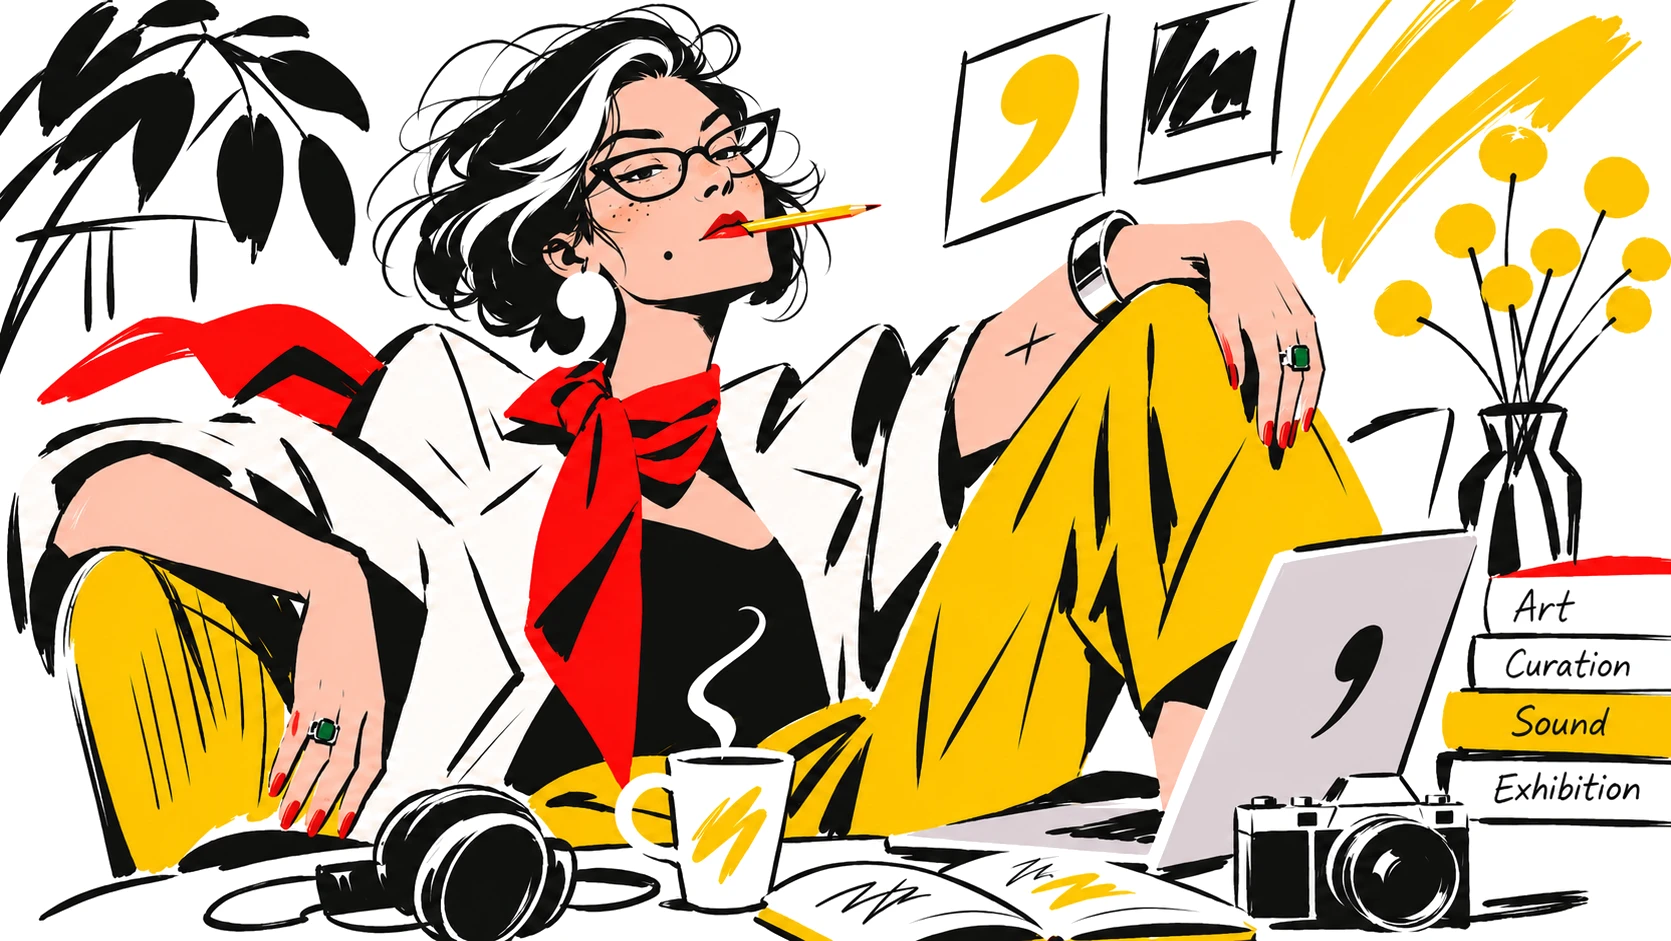
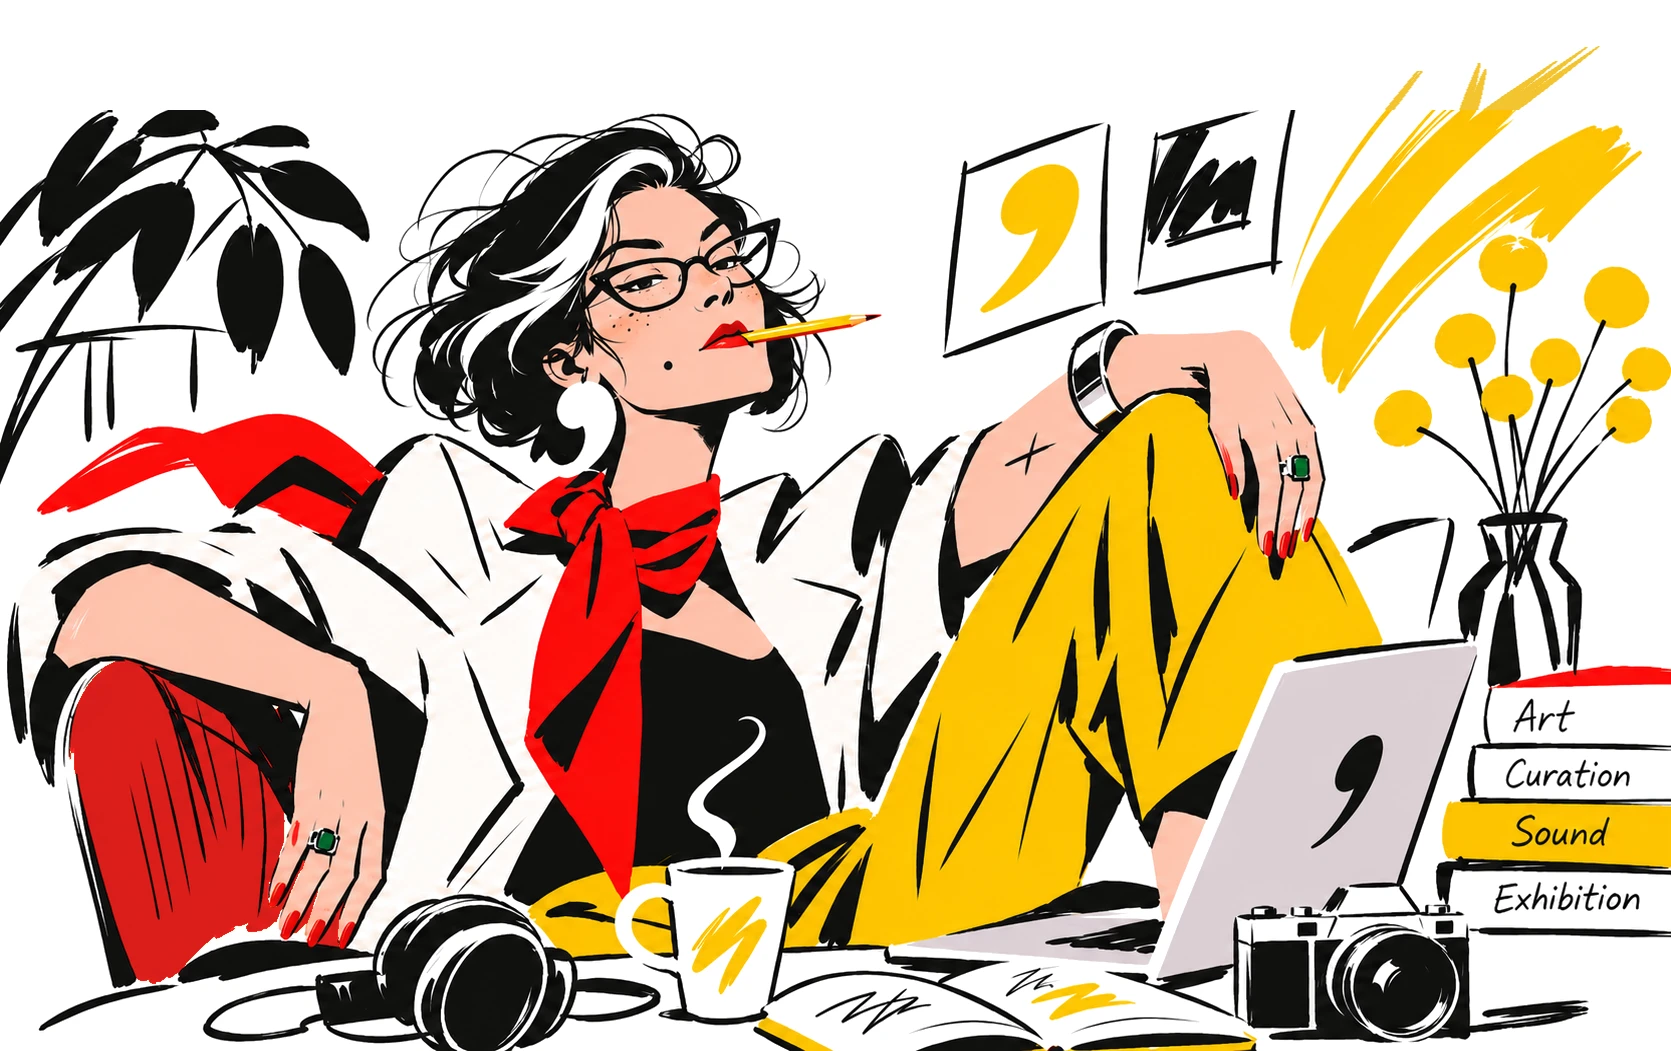
Hero illustration: armchair recoloured red, the cut yellow brush stroke continued upwards to a ragged end

diff --git a/day.html b/day.html
@@ -207,7 +207,7 @@ footer{border-top:1px solid var(--line);padding-block:32px 64px;font-size:14px;c
 </section>
 
 <section class="in show" aria-label="The product">
-  <figure class="cover"><img class="nora" src="shots/day/nora-hero-3.webp" width="1671" height="941" alt="Nora, a writer on art, curating and sound, at home with a laptop, a coffee and her books"><div class="win"><div class="bar"><i></i><i></i><i></i><span>commonplace / today</span></div><img src="shots/day/hero-today.webp" width="1600" height="911" alt="Today on desktop: four numbers, to-do, calendar and the last note"></div></figure>
+  <figure class="cover"><img class="nora" src="shots/day/nora-hero-3.webp" width="1671" height="1051" alt="Nora, a writer on art, curating and sound, at home with a laptop, a coffee and her books"><div class="win"><div class="bar"><i></i><i></i><i></i><span>commonplace / today</span></div><img src="shots/day/hero-today.webp" width="1600" height="911" alt="Today on desktop: four numbers, to-do, calendar and the last note"></div></figure>
 </section>
 
 <section class="in hero2" hidden>
@@ -218,7 +218,7 @@ footer{border-top:1px solid var(--line);padding-block:32px 64px;font-size:14px;c
       <p class="lead">Commonplace is a workspace for writers who publish in several digital outlets. Instead of a tour of features, this case follows one writer through one day and shows what the product does at each moment, and why.</p>
       <div class="ctas"><a class="btn" href="index.html">Open the prototype</a><a class="btn o" href="#day">Start the day</a><span class="mute">The writer, outlets, numbers, notes and quotes are invented.</span></div>
     </div>
-    <figure class="h2pic"><img src="shots/day/nora-hero-3-tall.webp" width="850" height="941" alt="Nora, a writer on art, curating and sound, at home with a laptop and a coffee"></figure>
+    <figure class="h2pic"><img src="shots/day/nora-hero-3-tall.webp" width="850" height="1051" alt="Nora, a writer on art, curating and sound, at home with a laptop and a coffee"></figure>
   </div>
   <div class="facts">
     <div><div class="k">My role</div><div class="v">Product and UX design, flow, information architecture, UI</div></div>
@@ -233,7 +233,7 @@ footer{border-top:1px solid var(--line);padding-block:32px 64px;font-size:14px;c
     <div class="label"><span class="prod"><b>Commonplace</b><img src="icon-180.png" alt="" width="42" height="42"></span><span class="kind">Personal product, 2026</span></div>
     <h1>A day with <em>Nora</em></h1>
   </div>
-  <figure class="h3pic"><img src="shots/day/nora-hero-3.webp" width="1671" height="941" alt="Nora, a writer on art, curating and sound, at home with a laptop, a coffee and her books"></figure>
+  <figure class="h3pic"><img src="shots/day/nora-hero-3.webp" width="1671" height="1051" alt="Nora, a writer on art, curating and sound, at home with a laptop, a coffee and her books"></figure>
   <div class="in h3foot">
     <p class="lead">Commonplace is a workspace for writers who publish in several digital outlets. Instead of a tour of features, this case follows one writer through one day and shows what the product does at each moment, and why.</p>
     <div class="ctas"><a class="btn" href="index.html">Open the prototype</a><a class="btn o" href="#day">Start the day</a><span class="mute">The writer, outlets, numbers, notes and quotes are invented.</span></div>
@@ -251,7 +251,7 @@ footer{border-top:1px solid var(--line);padding-block:32px 64px;font-size:14px;c
     <div class="label"><span class="prod"><b>Commonplace</b><img src="icon-180.png" alt="" width="42" height="42"></span><span class="kind">Personal product, 2026</span></div>
     <h1>A day with <em>Nora</em></h1>
   </div>
-  <figure class="h3pic ov4"><img src="shots/day/nora-hero-3.webp" width="1671" height="941" alt="Nora, a writer on art, curating and sound, at home with a laptop, a coffee and her books"><div class="win"><div class="bar"><i></i><i></i><i></i><span>commonplace / today</span></div><img src="shots/day/hero-today.webp" width="1600" height="911" alt="Today on desktop: four numbers, to-do, calendar and the last note"></div></figure>
+  <figure class="h3pic ov4"><img src="shots/day/nora-hero-3.webp" width="1671" height="1051" alt="Nora, a writer on art, curating and sound, at home with a laptop, a coffee and her books"><div class="win"><div class="bar"><i></i><i></i><i></i><span>commonplace / today</span></div><img src="shots/day/hero-today.webp" width="1600" height="911" alt="Today on desktop: four numbers, to-do, calendar and the last note"></div></figure>
   <div class="in h3foot">
     <p class="lead">Commonplace is a workspace for writers who publish in several digital outlets. Instead of a tour of features, this case follows one writer through one day and shows what the product does at each moment, and why.</p>
     <div class="ctas"><a class="btn" href="index.html">Open the prototype</a><a class="btn o" href="#day">Start the day</a><span class="mute">The writer, outlets, numbers, notes and quotes are invented.</span></div>
@@ -269,7 +269,7 @@ footer{border-top:1px solid var(--line);padding-block:32px 64px;font-size:14px;c
     <div class="label"><span class="prod"><b>Commonplace</b><img src="icon-180.png" alt="" width="42" height="42"></span><span class="kind">Personal product, 2026</span></div>
     <h1>A day with <em>Nora</em></h1>
   </div>
-  <figure class="h3pic ov5"><img src="shots/day/nora-hero-3.webp" width="1671" height="941" alt="Nora, a writer on art, curating and sound, at home with a laptop, a coffee and her books"><div class="win"><div class="bar"><i></i><i></i><i></i><span>commonplace / today</span></div><img src="shots/day/hero-today.webp" width="1600" height="911" alt="Today on desktop: four numbers, to-do, calendar and the last note"></div></figure>
+  <figure class="h3pic ov5"><img src="shots/day/nora-hero-3.webp" width="1671" height="1051" alt="Nora, a writer on art, curating and sound, at home with a laptop, a coffee and her books"><div class="win"><div class="bar"><i></i><i></i><i></i><span>commonplace / today</span></div><img src="shots/day/hero-today.webp" width="1600" height="911" alt="Today on desktop: four numbers, to-do, calendar and the last note"></div></figure>
   <div class="in h3foot">
     <p class="lead">Commonplace is a workspace for writers who publish in several digital outlets. Instead of a tour of features, this case follows one writer through one day and shows what the product does at each moment, and why.</p>
     <div class="ctas"><a class="btn" href="index.html">Open the prototype</a><a class="btn o" href="#day">Start the day</a><span class="mute">The writer, outlets, numbers, notes and quotes are invented.</span></div>
